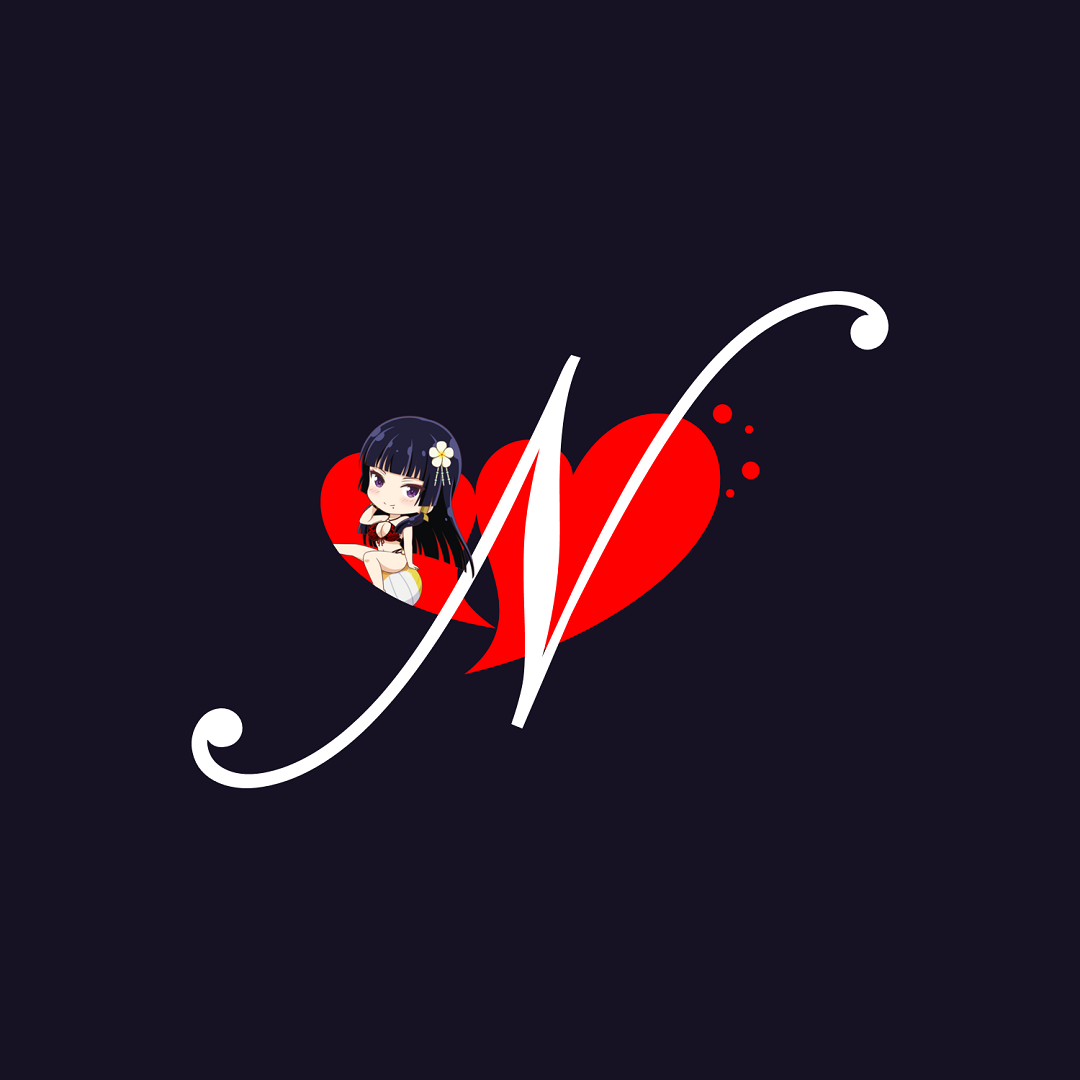
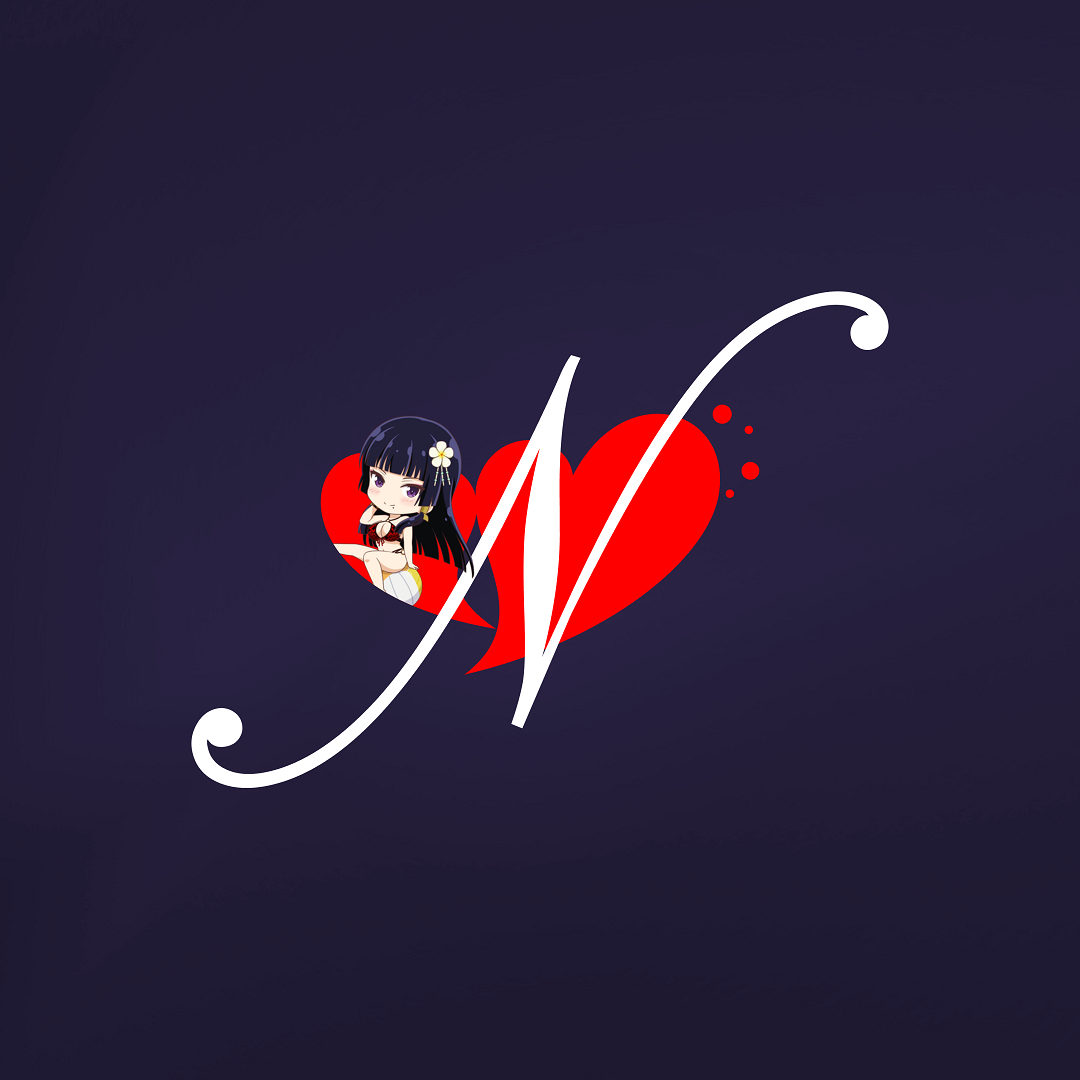
major implementation of the 2024 background redesign
more to follow

diff --git a/css/publishing.css b/css/publishing.css
@@ -1,4 +1,4 @@
-/* css updated as of 11 August 2023 UTC */
+/* css updated as of 20 Aug 2023 UTC */
 
 @font-face {
   font-family: 'Paris 2024';
@@ -18,13 +18,17 @@
   Olympic/Paralympic Committees)
 */
 
-body {
-  font-family: 'EB Garamond', serif;
+html {
+  background-color: #d6c278;
+  background-image: url(../media/images/BG2024/vidiariesBG.png);
+  background-size: cover;
+  background-position: center center;
+  background-repeat: no-repeat;
+  background-attachment: fixed;
 }
 
-footer {
-  padding: 19px;
-  text-align: center;
+body {
+  font-family: 'EB Garamond', serif;
 }
 
 header {
@@ -38,6 +42,10 @@ header {
   padding: 19px;
   text-align: center;
   background-color: #d6c278;
+  background-image: url(../media/images/BG2024/vidiariesBG.png);
+  background-size: cover;
+  background-position: center bottom;
+  background-repeat: no-repeat;
   box-shadow: 0 9.5px 19px #66666680;
 }
 .logoplace {
@@ -51,6 +59,12 @@ header {
   background-repeat: no-repeat;
   width: 100%;
   height: 100%;
+}
+
+footer {
+  background-color: #161224;
+  padding: 19px;
+  text-align: center;
 }
 
 a:link {
@@ -81,6 +95,11 @@ a:active {
   align-items: center;
   text-align: center;
   background-color: #d6c278;
+  background-image: url(../media/images/BG2024/vidiariesBG.png);
+  background-size: cover;
+  background-position: center center;
+  background-repeat: no-repeat;
+  background-attachment: fixed;
   -webkit-transition: 2.5s;
   -moz-transition: 2.5s;
   -o-transition: 2.5s;
@@ -135,7 +154,6 @@ a:active {
 .history {
   padding: 19px;
   padding-bottom: 9.5px;
-  background-color: #d6c278;
 }
 .infobox {
   padding-top: 9.5px;
@@ -272,6 +290,10 @@ a:active {
   align-items: center;
   overflow: hidden;
   background-color: #d6c278;
+  background-image: url(../media/images/BG2024/vidiariesBG.png);
+  background-size: cover;
+  background-position: center center;
+  background-repeat: no-repeat;
   box-shadow: 0 0 19px #666666;
   font-family: 'Paris 2024';
   font-weight: 900;

diff --git a/css/homefeed.css b/css/homefeed.css
@@ -1,4 +1,4 @@
-/* css updated as of 26 Jun 2023 UTC */
+/* css updated as of 20 Aug 2023 UTC */
 
 .NyoHeader {
   height: 100%;
@@ -95,6 +95,10 @@ header {
   padding: 19px;
   text-align: center;
   background-color: #ff0000;
+  background-image: url(../media/images/BG2024/nyoRed.png);
+  background-size: cover;
+  background-position: center bottom;
+  background-repeat: no-repeat;
   box-shadow: 0 9.5px 19px #06a8ffa0;
 }
 .logoHead {
@@ -188,6 +192,10 @@ header {
   text-align: center;
   vertical-align: middle;
   background-color: #06a8ff;
+  background-image: url(../media/images/BG2024/nyoBlue.png);
+  background-size: cover;
+  background-position: center center;
+  background-repeat: no-repeat;
 }
 
 .footer {

diff --git a/publishing/insidestory/20211031.html b/publishing/insidestory/20211031.html
@@ -9,6 +9,14 @@
     <link rel="icon" href="https://mamanyosquad.github.io/media/favicon/publishing.png" type="image/x-icon">
     <style type="text/css">
       /* attach in-html custom css args here */
+      html {
+        background-color: #161224 !important;
+        background-image: url(../../media/images/BG2024/nyoBG.png) !important;
+        background-size: cover !important;
+        background-position: center center !important;
+        background-repeat: no-repeat !important;
+        background-attachment: fixed !important;
+      }
     </style>
     <meta name="og:type" content="website">
     <meta name="og:title" content="Admirant of the Present">

diff --git a/publishing/insidestory/20211119_1.html b/publishing/insidestory/20211119_1.html
@@ -9,6 +9,14 @@
     <link rel="icon" href="https://mamanyosquad.github.io/media/favicon/publishing.png" type="image/x-icon">
     <style type="text/css">
       /* attach in-html custom css args here */
+      html {
+        background-color: #161224 !important;
+        background-image: url(../../media/images/BG2024/nyoBG.png) !important;
+        background-size: cover !important;
+        background-position: center center !important;
+        background-repeat: no-repeat !important;
+        background-attachment: fixed !important;
+      }
     </style>
     <meta name="og:type" content="website">
     <meta name="og:title" content="Admirant of the Present">

diff --git a/publishing/insidestory/20210920.html b/publishing/insidestory/20210920.html
@@ -9,6 +9,14 @@
     <link rel="icon" href="https://mamanyosquad.github.io/media/favicon/publishing.png" type="image/x-icon">
     <style type="text/css">
       /* attach in-html custom css args here */
+      html {
+        background-color: #161224 !important;
+        background-image: url(../../media/images/BG2024/nyoBG.png) !important;
+        background-size: cover !important;
+        background-position: center center !important;
+        background-repeat: no-repeat !important;
+        background-attachment: fixed !important;
+      }
     </style>
     <meta name="og:type" content="website">
     <meta name="og:title" content="Admirant of the Past">

diff --git a/publishing/insidestory/20211119_2.html b/publishing/insidestory/20211119_2.html
@@ -9,6 +9,14 @@
     <link rel="icon" href="https://mamanyosquad.github.io/media/favicon/publishing.png" type="image/x-icon">
     <style type="text/css">
       /* attach in-html custom css args here */
+      html {
+        background-color: #161224 !important;
+        background-image: url(../../media/images/BG2024/nyoBG.png) !important;
+        background-size: cover !important;
+        background-position: center center !important;
+        background-repeat: no-repeat !important;
+        background-attachment: fixed !important;
+      }
     </style>
     <meta name="og:type" content="website">
     <meta name="og:title" content="Everything Went Dark">

diff --git a/publishing/insidestory/20220130.html b/publishing/insidestory/20220130.html
@@ -9,6 +9,14 @@
     <link rel="icon" href="https://mamanyosquad.github.io/media/favicon/publishing.png" type="image/x-icon">
     <style type="text/css">
       /* attach in-html custom css args here */
+      html {
+        background-color: #161224 !important;
+        background-image: url(../../media/images/BG2024/nyoBG.png) !important;
+        background-size: cover !important;
+        background-position: center center !important;
+        background-repeat: no-repeat !important;
+        background-attachment: fixed !important;
+      }
     </style>
     <meta name="og:type" content="website">
     <meta name="og:title" content="Romantic Perception">

diff --git a/publishing/insidestory/20210907.html b/publishing/insidestory/20210907.html
@@ -9,6 +9,14 @@
     <link rel="icon" href="https://mamanyosquad.github.io/media/favicon/publishing.png" type="image/x-icon">
     <style type="text/css">
       /* attach in-html custom css args here */
+      html {
+        background-color: #161224 !important;
+        background-image: url(../../media/images/BG2024/nyoBG.png) !important;
+        background-size: cover !important;
+        background-position: center center !important;
+        background-repeat: no-repeat !important;
+        background-attachment: fixed !important;
+      }
     </style>
     <meta name="og:type" content="website">
     <meta name="og:title" content="Deep Arrogance">

diff --git a/css/articletable.css b/css/articletable.css
@@ -1,4 +1,4 @@
-/* css updated as of 5 May 2023 UTC */
+/* css updated as of 20 Aug 2023 UTC */
 
 .articleHead {
   background-image: url(../media/images/VenusIsland_1.jpg);
@@ -11,18 +11,14 @@
 }
 
 .articleArea {
-  width: 100%;
-  padding: 38px 285px;
+  width: 950px;
+  max-width: 100%;
+  margin: 0 auto;
+  padding: 38px;
 }
 .inThisArticle {
   width: 100%;
   padding: 38px;
-}
-@media screen and (max-width: 950px) {
-  .articleArea {
-    padding-left: 38px;
-    padding-right: 38px;
-  }
 }
 
 .secContain {

diff --git a/style.css b/style.css
@@ -1,6 +1,6 @@
 /*
   This CSS is required for all HTML documents. This might be updated as more additions come in.
-  CSS updated 19 July 2023 UTC
+  CSS updated 20 August 2023 UTC
 */
 
 /* Fonts */
@@ -51,6 +51,11 @@
 
   html {
     background-color: #161224;
+    background-image: url(media/images/BG2024/nyoBG.png);
+    background-size: cover;
+    background-position: center center;
+    background-repeat: no-repeat;
+    background-attachment: fixed;
     color: #ffffff;
   }
 

diff --git a/anniversary/1anniv/index.html b/anniversary/1anniv/index.html
@@ -9,6 +9,9 @@
     <link rel="icon" href="../../media/favicon/1anniv.png" type="image/x-icon">
     <style type="text/css">
       /* attach in-html custom css args here */
+      .articleArea {
+        padding: 285px 38px !important;
+      }
     </style>
     <meta name="theme-color" content="#161224">
     <meta name="msapplication-TileColor" content="#161224">

diff --git a/anniversary/2anniv/index.html b/anniversary/2anniv/index.html
@@ -9,6 +9,9 @@
     <link rel="icon" href="../../media/favicon/2anniv.png" type="image/x-icon">
     <style type="text/css">
       /* attach in-html custom css args here */
+      .articleArea {
+        padding: 285px 38px !important;
+      }
     </style>
     <meta name="theme-color" content="#161224">
     <meta name="msapplication-TileColor" content="#161224">
